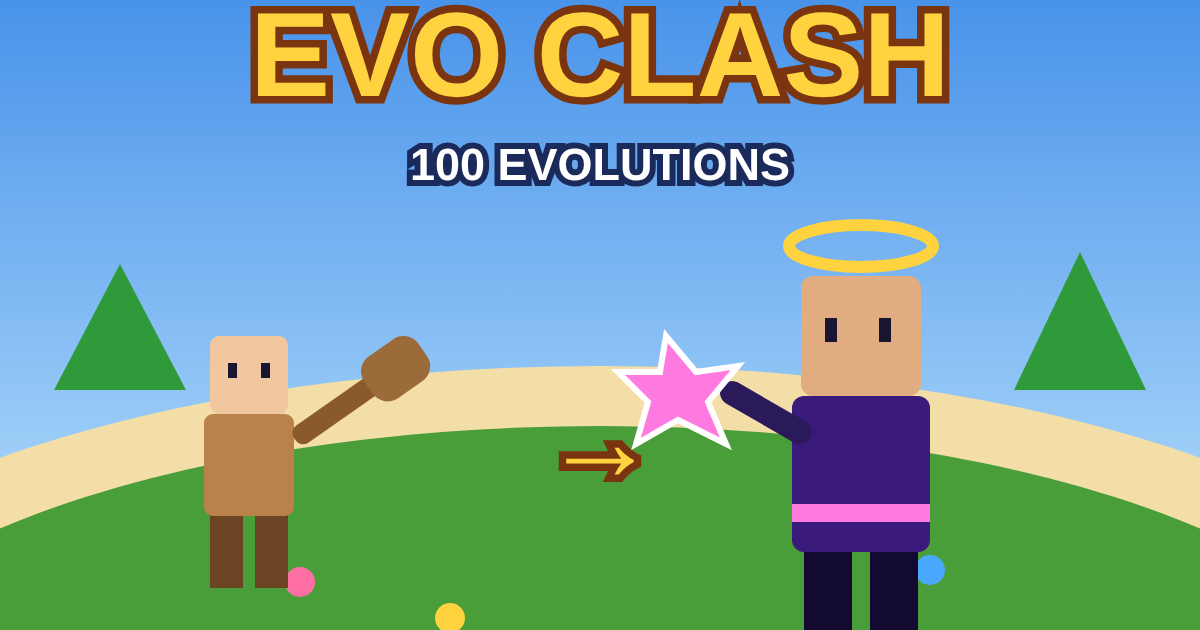
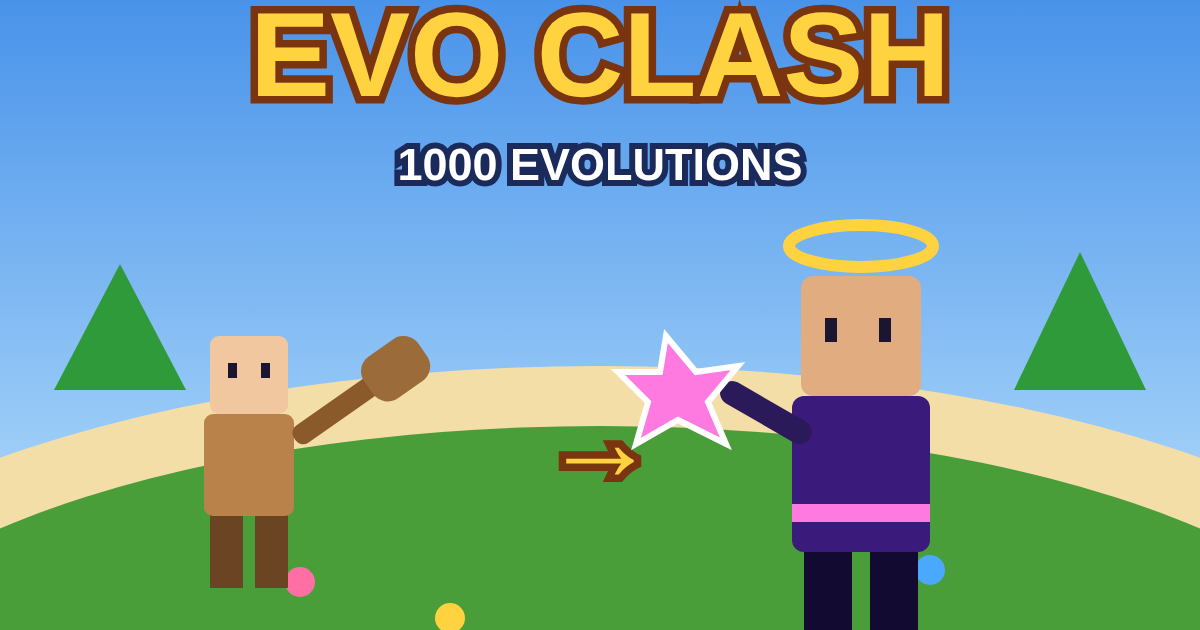
Evo Clash: 1000 evolutions (90 new themed ages) and each evolution costs 2x the last
Claude-Session: https://claude.ai/code/session_01C9NwBMTQrSAEqjjneTpNKc

Changed region(s): [[0.3083, 0.2111, 0.6783, 0.3016]]

diff --git a/evo-clash.html b/evo-clash.html
@@ -5,7 +5,7 @@
 <meta name="viewport" content="width=device-width, initial-scale=1, maximum-scale=1, user-scalable=no, viewport-fit=cover">
 <title>Evo Clash</title>
 <meta property="og:title" content="Evo Clash · GH Games">
-<meta property="og:description" content="Swing, bonk and evolve! Knock out rivals to climb through 100 evolutions from Cave Kid to Galaxy Emperor. Grab power-ups, rebirth for big XP multis and battle real players in the Public Arena.">
+<meta property="og:description" content="Swing, bonk and evolve! Knock out rivals to climb through 1000 evolutions from Cave Kid to Infinity Emperor. Grab power-ups, rebirth for big XP multis and battle real players in the Public Arena.">
 <meta property="og:image" content="https://ghgames.au/og/evo-clash.png">
 <meta property="og:url" content="https://ghgames.au/evo-clash.html">
 <meta name="twitter:card" content="summary_large_image">
@@ -81,7 +81,7 @@
 
     <div class="ov" id="ovTitle">
       <h2>EVO CLASH</h2>
-      <p>Swing your weapon to bonk other fighters. One good hit knocks them out! Gobble the glowing orbs and knock out rivals to get XP. Every level you evolve into something new: 100 evolutions, from Cave Kid to Galaxy Emperor. Bigger means longer reach, but slower feet.</p>
+      <p>Swing your weapon to bonk other fighters. One good hit knocks them out! Gobble the glowing orbs and knock out rivals to get XP. Every level you evolve into something new: 1000 evolutions, from Cave Kid to Infinity Emperor, and each one needs twice as much XP as the last. Bigger means longer reach, but slower feet.</p>
       <div class="seg" id="modes"><button data-m="solo">Solo vs computer</button><button data-m="public">🌍 Public Arena</button></div>
       <div class="seg" id="diffs"><button data-d="0">Calm</button><button data-d="1">Normal</button><button data-d="2">Wild</button></div>
       <div class="row"><button class="btn" id="bPlay">Play</button><button class="btn alt" id="bEvos">Evolutions</button><button class="btn pink" id="bReb">Rebirth</button></div>
@@ -148,7 +148,7 @@ function myName(){let n="";try{n=localStorage.getItem("ghgames_nick")||"";}catch
 const MYID=(()=>{try{let v=sessionStorage.getItem("ec_id");if(!v){v="p"+Math.random().toString(36).slice(2,9);sessionStorage.setItem("ec_id",v);}return v;}catch(e){return "p"+Math.random().toString(36).slice(2,9);}})();
 const BOT_NAMES=["Bonko","Grug","Mega Mo","Zappy","Biff","Clonk","Dizzy","Thud","Captain Bop","Wham","Pip","Rocky","Sir Swish","Tornado","Kiwi","Noodle","Bash Bro","Turbo","Waffle","Gizmo","Biscuit","Zorp","Sparky","Mango","Pebble","Dodge","Smashy","Ziggy","Nugget","Blip","Wobble","Sprout","Boomer","Jelly","Taco","Pickle","Rumble","Zoom","Clank","Fizz"];
 
-/* ---------- 100 evolutions in 10 ages ---------- */
+/* ---------- 1000 evolutions in 100 ages ---------- */
 const AGES=[
  {n:"Stone Age",w:"club",tunic:["#a0703c","#8d5f2f","#b9824a"],legs:"#6b4423",trim:"#4a2e14",cape:"#d8c8a8",col:"#b9824a",
   forms:["Cave Kid","Twig Swinger","Rock Basher","Bone Club","Flint Fighter","Cave Chief","Mammoth Hunter","Sabre Tooth","Fire Keeper","Stone King"]},
@@ -171,16 +171,34 @@ const AGES=[
  {n:"Galaxy Age",w:"star",tunic:["#2a1a5a","#1a1040","#3a1a7a"],legs:"#120a30",trim:"#ff7ae0",cape:"#3a1a8a",col:"#ff7ae0",space:true,
   forms:["Star Kid","Comet Rider","Space Ranger","Nova","Star Warden","Galaxy Guard","Cosmic Titan","Black Hole","Supernova","Galaxy Emperor"]}
 ];
-const MAXL=100;
+const MAXL=1000;
+/* George (10/10/2026): 900 more evolutions, so 1000 in all. Ages 11-100 are made from a theme word,
+   the ten rank names below and a colour per age; weapons and hats cycle through the first ten ages' styles. */
+const THEMES=["Lava","Ice","Jungle","Desert","Ocean","Thunder","Shadow","Crystal","Candy","Toxic",
+ "Cloud","Volcano","Frost","Storm","Ghost","Swamp","Canyon","Mountain","Glacier","Tornado",
+ "Bubble","Jelly","Slime","Mushroom","Forest","Coral","Sand","Bone","Zombie","Vampire",
+ "Werewolf","Dino","Shark","Tiger","Wolf","Eagle","Bear","Cobra","Scorpion","Gorilla",
+ "Clockwork","Steam","Gear","Pixel","Neon","Cyber","Turbo","Rocket","Laser","Plasma",
+ "Atomic","Meteor","Comet","Lunar","Solar","Nebula","Quasar","Aurora","Eclipse","Prism",
+ "Emerald","Ruby","Sapphire","Golden","Diamond","Rune","Spirit","Dream","Nightmare","Mirage",
+ "Kraken","Phoenix","Dragon","Titan","Mythic","Legend","Rainbow","Lightning","Blizzard","Magma",
+ "Tsunami","Earthquake","Chaos","Void","Cosmic","Ultra","Hyper","Quantum","Omega","Infinity"];
+const RANKS=["Kid","Scout","Fighter","Warrior","Guard","Knight","Champion","Lord","King","Emperor"];
+function hsl(h,s,l){return "#"+new THREE.Color().setHSL(((h%360)+360)%360/360,s,l).getHexString();}
+THEMES.forEach((t,i)=>{const h=i*47+20;
+  AGES.push({n:t+" Age",w:AGES[i%10].w,tunic:[hsl(h,.6,.45),hsl(h+20,.55,.38),hsl(h-20,.65,.5)],legs:hsl(h,.4,.2),trim:hsl(h+180,.75,.62),cape:hsl(h+30,.6,.32),col:hsl(h,.85,.6),
+    forms:RANKS.map(r=>t+" "+r)});});
+if(new Set(THEMES).size!==90||AGES.length!==100)console.error("Evo Clash: ages list is wrong");
 const ageOf=L=>Math.floor((L-1)/10), formOf=L=>(L-1)%10;
 const formName=L=>AGES[ageOf(L)].forms[formOf(L)];
 const NEED=[0],CUM=[0,0];
-for(let L=1;L<=MAXL;L++){NEED[L]=Math.round(12*Math.pow(1.28,L-1));CUM[L+1]=CUM[L]+NEED[L];}
+// every evolution costs 2x the one before (George, 10/10/2026); Evo 1000 needs about 1.6e302 XP, still inside JavaScript's number range
+for(let L=1;L<=MAXL;L++){NEED[L]=12*Math.pow(2,L-1);CUM[L+1]=CUM[L]+NEED[L];}
 const need=L=>NEED[Math.min(MAXL,Math.max(1,L))];
 const mult=()=>1+S.reb;
-const startEvo=()=>1+Math.min(S.reb*2,40);
+const startEvo=()=>1+Math.min(S.reb*2,500);
 const rebNeed=()=>Math.min(MAXL,20+10*S.reb);
-const wlen=L=>1.0+formOf(L)*0.06+ageOf(L)*0.035;
+const wlen=L=>1.0+formOf(L)*0.06+Math.min(9,ageOf(L))*0.035;
 
 /* ---------- power-ups ---------- */
 const PU=[
@@ -240,7 +258,7 @@ function tip(g,len,r,color,x0,o){const m=part(GK,color,r,len,r,x0+len/2,0,0,o);m
 const GLOWC=["#ff5d5d","#ffd23f","#5fd36a","#3fe0ff","#4aa8ff","#b085ff","#ff7ae0","#ffffff","#ff8a3d","#ffd23f"];
 function buildWeapon(L){
   const g=new THREE.Group(),age=ageOf(L),f=formOf(L),len=wlen(L);
-  const metal=f<4?"#9aa1ad":f<7?"#dfe4ee":"#ffcf3f";
+  const metal=age>=10&&f>=4?AGES[age].col:f<4?"#9aa1ad":f<7?"#dfe4ee":"#ffcf3f";
   const gl=f>=7?{emissive:metal,glow:0.35}:{};
   switch(AGES[age].w){
     case "club":{
@@ -315,7 +333,7 @@ function buildModel(c){
   const w=buildWeapon(L);w.position.set(0.5,0,0);pivot.add(w);body.add(pivot);
   // hats
   if(f>=2||age>0){
-    switch(age){
+    switch(age%10){
       case 0:body.add(part(GB,"#5a3a1a",0.7,0.1,0.7,0,2.06,0));if(f>=6)body.add(part(GK,"#e8e2d0",0.06,0.4,0.06,-0.1,2.3,0.25));break;
       case 1:body.add(part(GB,"#cd7f32",0.72,0.3,0.72,0,2.12,0));body.add(part(GB,"#c0392b",0.62,0.26,0.08,-0.02,2.38,0));break;
       case 2:body.add(part(GB,"#8f96a3",0.72,0.32,0.72,0,2.12,0,{metal:.5,rough:.4}));body.add(part(GB,"#8f96a3",0.06,0.24,0.08,0.36,1.94,0));break;
@@ -330,12 +348,12 @@ function buildModel(c){
       case 9:{const h=part(GT,"#ffd23f",0.42,0.42,0.42,0,2.45,0,{emissive:"#ffd23f",glow:1.3});h.rotation.x=Math.PI/2;body.add(h);}break;
     }
   }
-  if(age===3){body.add(part(GB,A.cape,0.08,0.7,0.56,0.16,1.1,-0.72));body.add(part(GB,"#ffcf3f",0.1,0.12,0.58,0.17,1.12,-0.72));body.add(part(GB,"#ffcf3f",0.1,0.58,0.12,0.17,1.12,-0.72));}
+  if(age%10===3){body.add(part(GB,A.cape,0.08,0.7,0.56,0.16,1.1,-0.72));body.add(part(GB,"#ffcf3f",0.1,0.12,0.58,0.17,1.12,-0.72));body.add(part(GB,"#ffcf3f",0.1,0.58,0.12,0.17,1.12,-0.72));}
   if(f>=4)body.add(part(GB,A.cape,0.06,1.0,0.76,-0.3,1.15,0));
   if(f>=6){body.add(part(GB,A.trim,0.42,0.18,0.3,0,1.56,-0.48),part(GB,A.trim,0.42,0.18,0.3,0,1.56,0.48));}
   let aura=null;
   if(f>=8){aura=part(GT,A.col,0.9,0.9,0.9,0,0.08,0,{emissive:A.col,glow:1.2});aura.rotation.x=Math.PI/2;aura.castShadow=false;body.add(aura);}
-  if(f===9&&age>0){body.add(part(GC,"#ffcf3f",0.36,0.16,0.36,0,age===7?3.2:age===3||age===8?2.36:2.5,0,{metal:.7,rough:.3}));}
+  if(f===9&&age>0){const st=age%10;body.add(part(GC,"#ffcf3f",0.36,0.16,0.36,0,st===7?3.2:st===3||st===8?2.36:2.5,0,{metal:.7,rough:.3}));}
   const bubble=new THREE.Mesh(GS,bubbleMat);bubble.scale.setScalar(1.6);bubble.position.y=1.2;bubble.visible=false;body.add(bubble);
   scene.add(root);
   c.root=root;c.body=body;c.pivot=pivot;c.legL=legL;c.legR=legR;c.aura=aura;c.bubble=bubble;c.builtL=L;
@@ -353,7 +371,8 @@ function dropModel(c){if(c.root)scene.remove(c.root);if(c.tag){scene.remove(c.ta
 let chars=[];const byId=new Map();
 let me=null;
 function derive(c){
-  c.s=(1+(c.L-1)*0.045)*((c.fx.giant||0)>0?1.45:1);
+  // growth slows after Evo 100 so the giants still fit on the island (about 8x at Evo 1000)
+  c.s=(c.L<=100?1+(c.L-1)*0.045:5.455+2.6*(1-Math.exp(-(c.L-100)/300)))*((c.fx.giant||0)>0?1.45:1);
   c.rad=0.5*c.s;c.reach=c.s*(0.62+wlen(c.L)*1.12);
   c.spd=8.5/(1+(c.s-1)*0.2)*((c.fx.speed||0)>0?1.6:1);
 }
@@ -387,7 +406,7 @@ function spawnBot(){
 }
 function addXP(c,amt){
   if(!(amt>0))return;
-  c.tot=Math.min(1e300,c.tot+amt);c.xp+=amt;let up=false;
+  c.tot=Math.min(1.7e308,c.tot+amt);c.xp+=amt;let up=false;
   while(c.L<MAXL&&c.xp>=need(c.L)){c.xp-=need(c.L);c.L++;up=true;}
   if(c.L>=MAXL)c.xp=Math.min(c.xp,need(MAXL));
   if(up)evolve(c);
@@ -622,7 +641,7 @@ function animate(c,dt,t){
   else{c.pivot.rotation.y+=(-0.45-c.pivot.rotation.y)*Math.min(1,dt*10);c.pivot.rotation.z+=(0.8+Math.sin(t*3+c.phase)*0.05-c.pivot.rotation.z)*Math.min(1,dt*10);}
   if(c.aura){c.aura.rotation.z+=dt*2;}
   const prot=c.spawnT>0;c.bubble.visible=c.shield||(prot&&Math.sin(t*20)>-0.3);
-  c.tag.position.set(c.x,c.ds*3.0+0.6+(ageOf(c.L)===7?0.6*c.ds:0),c.z);
+  c.tag.position.set(c.x,c.ds*3.0+0.6+(ageOf(c.L)%10===7?0.6*c.ds:0),c.z);
   const ts=0.7+c.ds*0.22;c.tag.scale.set(ts*c.tag.userData.ar,ts,1);
 }
 
@@ -810,7 +829,7 @@ function applyRemote(c,a){
   const was=c.alive;c.alive=!!alive;
   if(!was&&c.alive){c.x=c.tx;c.z=c.tz;}
   if(sw&&c.swingT<0&&c.alive){c.swingT=0;if(me&&Math.hypot(c.x-me.x,c.z-me.z)<25)A3.sfx("whoosh");}
-  c.shield=!!sh;c.spawnT=0;c.fx.giant=gi?1:0;c.tot=Math.min(1e300,+tot||0);
+  c.shield=!!sh;c.spawnT=0;c.fx.giant=gi?1:0;c.tot=Math.min(1.7e308,+tot||0);
   derive(c);c.seen=performance.now();
 }
 function remoteChar(id,name,bot,a){
@@ -838,7 +857,7 @@ function onKO(p){
   if(!p)return;const t=byId.get(String(p.i));
   if(t&&t.remote&&t.alive){t.alive=false;t.swingT=-1;dropOrbs(t);if(me&&Math.hypot(t.x-me.x,t.z-me.z)<45){parts.burst(new THREE.Vector3(t.x,1.2*t.s,t.z),AGES[ageOf(t.L)].col,20,7,1);A3.sfx("pop");}}
   const k=byId.get(String(p.b));
-  if(k&&!k.remote)reward(k,Math.min(1e300,Math.max(0,+p.x||0)),t||{name:safeName(p.n)});
+  if(k&&!k.remote)reward(k,Math.min(1.7e308,Math.max(0,+p.x||0)),t||{name:safeName(p.n)});
 }
 document.addEventListener("visibilitychange",()=>{if(GMODE!=="public")return;if(document.hidden){disconnect();updateOnlineMsg();}else if(!online&&mode!=="title"){joinT=Date.now();connect();}});
 
@@ -865,7 +884,7 @@ function drawEvos(){
 function drawReb(){
   $("rTitle").textContent="Rebirths: "+S.reb;
   $("rMul1").textContent="x"+mult();$("rMul2").textContent="x"+(mult()+1);
-  $("rStart").textContent="Evo "+startEvo()+" → Evo "+(1+Math.min((S.reb+1)*2,40));
+  $("rStart").textContent="Evo "+startEvo()+" → Evo "+(1+Math.min((S.reb+1)*2,500));
   $("rNeed").textContent="Evo "+rebNeed()+" in one life";
   $("rText").textContent=S.rebReady?"You're ready! Rebirth to get more XP from every orb and knockout, and start higher up. Your best evolution and knockouts are kept.":"Reach Evo "+rebNeed()+" ("+formName(rebNeed())+") in one life to unlock your next rebirth.";
   $("rGo").disabled=!S.rebReady;

diff --git a/index.html b/index.html
@@ -176,13 +176,13 @@
               <polygon points="-40,40 -30,52 -16,50 -26,62 -20,76 -36,68 -50,76 -46,62 -56,52 -42,52" fill="#ff7ae0" stroke="#fff" stroke-width="2"/>
             </g>
             <text x="200" y="52" text-anchor="middle" font-family="Arial Black,Arial" font-weight="900" font-size="40" fill="#ffd23f" stroke="#7a3410" stroke-width="5" paint-order="stroke">EVO CLASH</text>
-            <text x="200" y="80" text-anchor="middle" font-family="Arial Black,Arial" font-weight="900" font-size="15" fill="#fff" stroke="#1a2a5a" stroke-width="4" paint-order="stroke">100 EVOLUTIONS</text>
+            <text x="200" y="80" text-anchor="middle" font-family="Arial Black,Arial" font-weight="900" font-size="15" fill="#fff" stroke="#1a2a5a" stroke-width="4" paint-order="stroke">1000 EVOLUTIONS</text>
           </svg>
           <span class="badge new">New</span>
         </div>
         <div class="meta">
           <h3>Evo Clash</h3>
-          <p>Swing, bonk and evolve through 100 forms from Cave Kid to Galaxy Emperor. Grab power-ups, rebirth for big XP multis and battle real players in the Public Arena.</p>
+          <p>Swing, bonk and evolve through 1000 forms from Cave Kid to Infinity Emperor. Grab power-ups, rebirth for big XP multis and battle real players in the Public Arena.</p>
           <div class="tags"><span>Action</span><span>Arcade</span></div>
         </div>
       </a>

diff --git a/README.md b/README.md
@@ -34,7 +34,7 @@ ghgames/
   save-your-rabbit.html  intro where a rich guy steals your rabbit, then a 25-stage jump obby: wins from each stage buy jump multis, walls need more jump each stage, stage 25 gets your rabbit back
   poo-simulator.html  hold to push, let go in the gold zone for a perfect poo: poos earn coins, food buys release power, 11 worlds bought with coins (better food, bigger coin multi), rebirths double food and coin multi, Auto Poo, biggest poo ever and this session
   monster-mayhem.html  be the monster (like You Monster! on Poki): eat zombies to grow, bite and SMASH other monsters, last one standing wins; 100 levels over 10 worlds with a boss every 10th level and a closing purple storm, 8 upgrades, 10 monsters to unlock; Public Arena is one free-for-all room for everyone online (Supabase Realtime, the oldest player runs the computer monsters, each player owns their own health, zombies are the same on every device from a seed); leaderboard is most KOs in one life
-  evo-clash.html  swing-and-evolve arena (George's own version of the evolve-as-you-win .io games, own name and art): one hit knocks out, gobble orbs and knock out rivals for XP, 100 evolutions over 10 ages (Stone Age to Galaxy Age, a new form and weapon every level), bigger means longer reach but slower feet, 6 power-ups on the map (Speed, Shield, Double XP, Giant, Magnet, Fury), rebirths (+1x XP multi each and start 2 evolutions higher; needs Evo 20, then +10 each time), Solo vs computer on 3 difficulties or the Public Arena (Supabase Realtime channel evoclash-arena, the oldest player runs the computer fighters, each player owns their own knockouts); save evoclash-save, leaderboard most knockouts in one life
+  evo-clash.html  swing-and-evolve arena (George's own version of the evolve-as-you-win .io games, own name and art): one hit knocks out, gobble orbs and knock out rivals for XP, 1000 evolutions over 100 ages (Stone Age to Galaxy Age hand-made, then 90 themed ages from Lava Age to Infinity Age; a new form every level), each evolution needs 2x the XP of the one before (George, 10/10/2026), bigger means longer reach but slower feet, 6 power-ups on the map (Speed, Shield, Double XP, Giant, Magnet, Fury), rebirths (+1x XP multi each and start 2 evolutions higher; needs Evo 20, then +10 each time), Solo vs computer on 3 difficulties or the Public Arena (Supabase Realtime channel evoclash-arena, the oldest player runs the computer fighters, each player owns their own knockouts); save evoclash-save, leaderboard most knockouts in one life
   rail-dash.html  endless train-track runner (like Subway Surfers, no ads): swipe or arrow keys to change track, jump red barriers, roll under yellow signs, run up ramps onto train roofs, dodge moving trains; stumble twice and Bolt the guard bot catches you; power-ups (magnet, shield, rocket, double coins) with coin upgrades, score multi, 6 runners, 5 worlds, 3 rolling missions; leaderboard is highest score
   arcade3d.js, arcade3d.css  shared kit for the 20 arcade classics (see below)
   tools/test3d.py headless smoke test for any page
